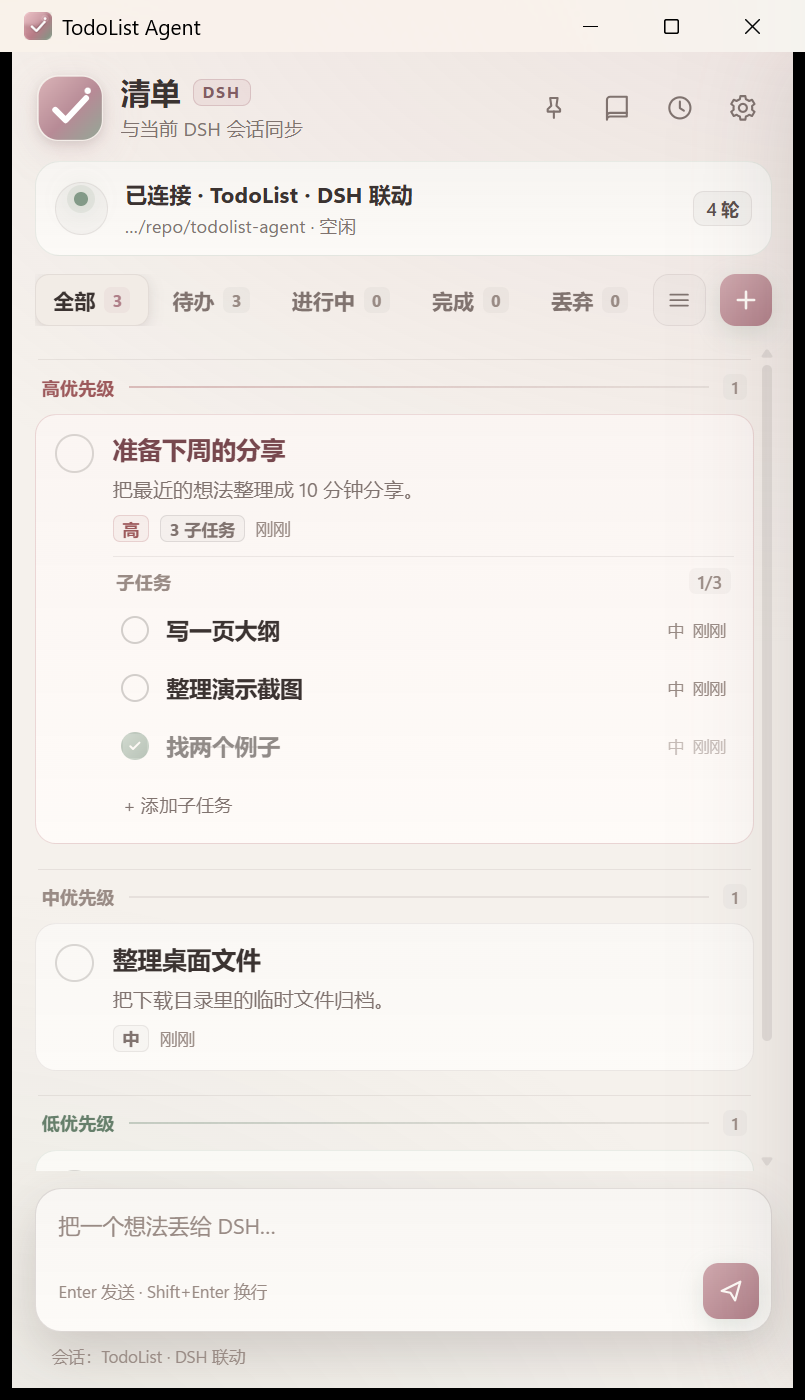
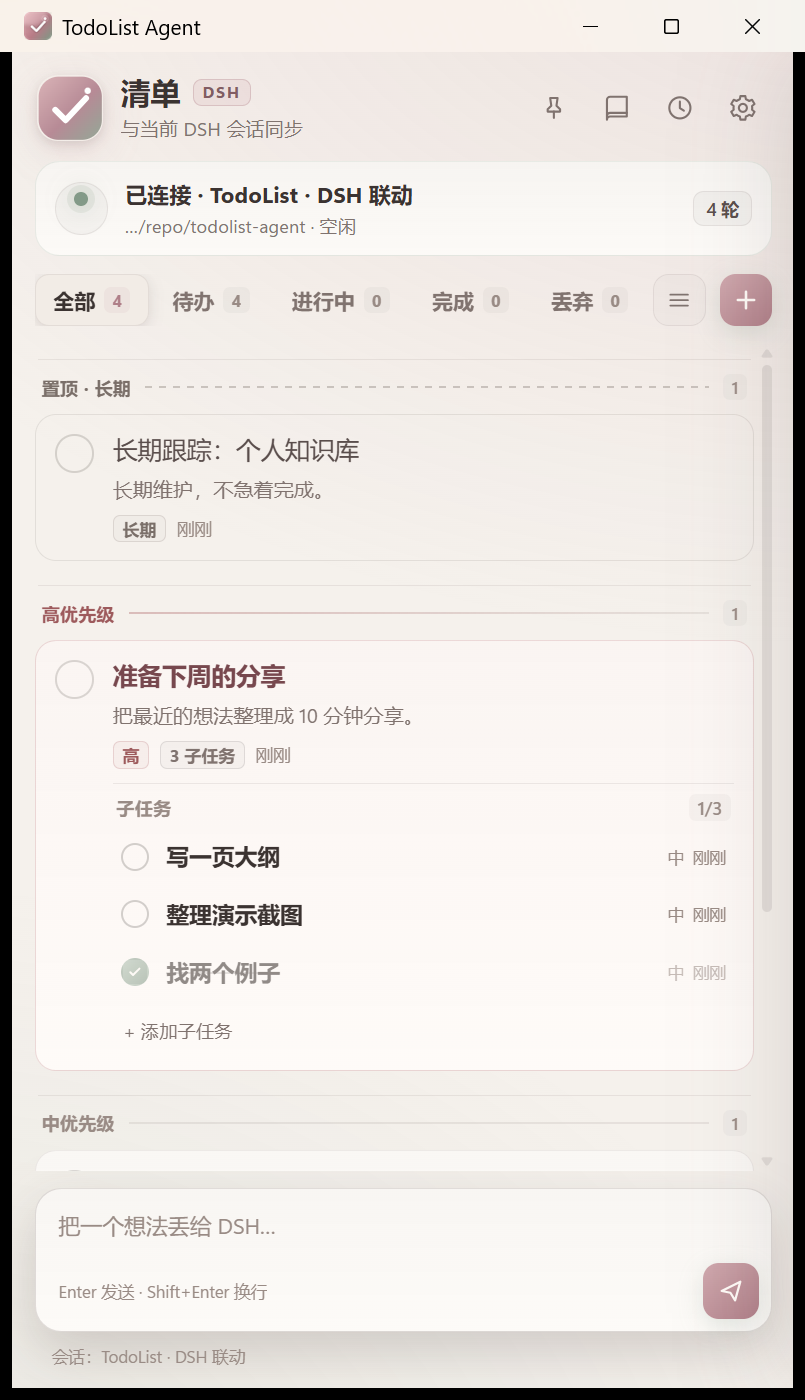
feat: add pinned long-term priority band

diff --git a/web/style.css b/web/style.css
@@ -652,6 +652,13 @@ svg {
   background: rgba(var(--ink), 0.025);
 }
 
+.pill.pinned {
+  color: #7d6f68;
+  border-color: rgba(125, 111, 104, 0.18);
+  background: rgba(125, 111, 104, 0.04);
+  font-weight: 550;
+}
+
 .pill.high {
   color: #a9555b;
   border-color: rgba(190, 106, 110, 0.22);
@@ -756,6 +763,14 @@ svg {
   background: rgba(var(--ink), 0.035);
 }
 
+.prio-divider.prio-pinned {
+  color: #7d6f68;
+}
+
+.prio-divider.prio-pinned .prio-line {
+  background: repeating-linear-gradient(90deg, rgba(125, 111, 104, 0.35) 0 4px, transparent 4px 8px);
+}
+
 .prio-divider.prio-high {
   color: #a9555b;
 }
@@ -779,6 +794,16 @@ svg {
 
 /* Priority is expressed by weight and a restrained tint, not by piling on
    badges. High gets the rose accent, low deliberately stays quiet. */
+.todo.prio-pinned {
+  border-color: rgba(125, 111, 104, 0.15);
+  background: rgba(125, 111, 104, 0.018), var(--surface);
+}
+
+.todo.prio-pinned .todo-title {
+  color: var(--text-2);
+  font-weight: 500;
+}
+
 .todo.prio-high {
   border-color: rgba(190, 106, 110, 0.24);
   background: linear-gradient(180deg, rgba(190, 106, 110, 0.055), rgba(190, 106, 110, 0.015)), var(--surface);
@@ -799,6 +824,11 @@ svg {
   font-weight: 500;
 }
 
+.crow.prio-pinned .crow-title {
+  color: var(--text-2);
+  font-weight: 500;
+}
+
 .crow.prio-high .crow-title {
   color: #7f454e;
   font-weight: 700;
@@ -809,12 +839,21 @@ svg {
   font-weight: 500;
 }
 
+.crow:not(.child).prio-pinned {
+  box-shadow: inset 2px 0 0 rgba(125, 111, 104, 0.22);
+}
+
 .crow:not(.child).prio-high {
   box-shadow: inset 2px 0 0 rgba(190, 106, 110, 0.38);
 }
 
 .crow:not(.child).prio-low {
   box-shadow: inset 2px 0 0 rgba(125, 155, 134, 0.30);
+}
+
+.subtask.prio-pinned .stitle {
+  color: var(--text-2);
+  font-weight: 500;
 }
 
 .subtask.prio-high .stitle {

diff --git a/web/index.html b/web/index.html
@@ -211,6 +211,7 @@
         <label class="field">
           <span>优先级</span>
           <select id="taskPriority">
+            <option value="pinned">置顶 · 长期</option>
             <option value="high">高</option>
             <option value="normal" selected>中</option>
             <option value="low">低</option>
@@ -356,7 +357,7 @@
 
       <section class="settings-section about">
         <div class="section-title"><span class="section-index">05</span> 关于</div>
-        <p><b>TodoList Agent <span id="aboutVersion">0.2.2</span></b><br>
+        <p><b>TodoList Agent <span id="aboutVersion">0.2.3</span></b><br>
         用 Go + WebView2 构建的轻量桌面清单。通过 DSH 的本地 Web API 直接向当前会话发送输入，并把 DSH 的工具调用同步回清单。</p>
         <p class="muted">连接原理：读取 <code>%USERPROFILE%\.dsh\.credentials.yaml</code> 中的本地签名密钥，签发一个仅限 127.0.0.1 的会话 Cookie；输入通过 <code>session/prompt</code> 进入当前会话。</p>
       </section>

diff --git a/web/app.js b/web/app.js
@@ -33,12 +33,13 @@
   };
 
   const PRIORITY = {
-    high: { label: "高", cls: "high", rank: 0 },
-    normal: { label: "中", cls: "", rank: 1 },
-    low: { label: "低", cls: "low", rank: 2 },
+    pinned: { label: "长期", cls: "pinned", rank: 0 },
+    high: { label: "高", cls: "high", rank: 1 },
+    normal: { label: "中", cls: "", rank: 2 },
+    low: { label: "低", cls: "low", rank: 3 },
   };
-  const PRIORITY_ORDER = ["high", "normal", "low"];
-  const PRIORITY_BAND_LABEL = { high: "高优先级", normal: "中优先级", low: "低优先级" };
+  const PRIORITY_ORDER = ["pinned", "high", "normal", "low"];
+  const PRIORITY_BAND_LABEL = { pinned: "置顶 · 长期", high: "高优先级", normal: "中优先级", low: "低优先级" };
   const STATUS = {
     todo: { label: "待办", rank: 1 },
     doing: { label: "进行中", rank: 0 },

diff --git a/app.go b/app.go
@@ -342,7 +342,7 @@ func (a *App) setPrefs(p Prefs) {
 
 func normalizePriority(p string) string {
 	switch p {
-	case priorityLow, priorityNormal, priorityHigh:
+	case priorityPinned, priorityHigh, priorityNormal, priorityLow:
 		return p
 	default:
 		return priorityNormal
@@ -504,12 +504,14 @@ func statusRank(status string) int {
 
 func priorityRank(priority string) int {
 	switch normalizePriority(priority) {
-	case priorityHigh:
+	case priorityPinned:
 		return 0
+	case priorityHigh:
+		return 1
 	case priorityLow:
-		return 2
+		return 3
 	}
-	return 1
+	return 2
 }
 
 func todoOrderLess(a, b Todo) bool {
@@ -620,6 +622,8 @@ func (a *App) moveTodo(id, priority, beforeID string, after bool, actor string) 
 
 func priorityLabel(priority string) string {
 	switch normalizePriority(priority) {
+	case priorityPinned:
+		return "置顶 · 长期"
 	case priorityHigh:
 		return "高优先级"
 	case priorityLow:
@@ -944,7 +948,7 @@ func (a *App) agentsBlock() string {
 		"2. `GET <url>/api/todos` 查看全部任务（含 `dropped`），用于查重和定位。",
 		"3. `GET <url>/api/journal?limit=20&q=关键词` 回看旧想法原文及其关联任务。",
 		"4. `POST <url>/api/todos` 执行动作：",
-		"   - `{\"action\":\"add\",\"title\":\"...\",\"notes\":\"...\",\"priority\":\"high|normal|low\",\"parentId\":\"...\",\"sourceMessageId\":\"...\"}`",
+		"   - `{\"action\":\"add\",\"title\":\"...\",\"notes\":\"...\",\"priority\":\"pinned|high|normal|low\",\"parentId\":\"...\",\"sourceMessageId\":\"...\"}`",
 		"   - `{\"action\":\"update\",\"id\":\"...\",\"title\":\"...\",\"status\":\"todo|doing|done|dropped\",\"dropReason\":\"...\"}`",
 		"   - `{\"action\":\"complete\",\"id\":\"...\"}` / `reopen` / `drop`（带 reason） / `delete`",
 		"",
@@ -952,6 +956,7 @@ func (a *App) agentsBlock() string {
 		"- 只把**明确的行动意图**（想做、要做、记一下、提醒我、推进某事）提炼成任务；纯情绪/感慨/分享不要自动建任务，可以简短回应或问一句是否需要记下。",
 		"- 一条消息有多个行动点就拆成多个任务；一个行动点不要拆碎。",
 		"- 任务支持一层子任务：`add` 时传 `parentId` 即可；子任务不能再有子任务。只有当一个任务确实有 2-5 个明确步骤时才拆子任务，不要为了层级而层级。",
+		"- 长期跟踪、需要一直排在最前面但不紧急的任务用 `priority:\"pinned\"`（置顶 · 长期）；它排在 high 之前，但视觉上不抢高优先级。",
 		"- 先查列表再新增，避免重复；相似任务优先 update 而不是 add。",
 		"- 用户说“关掉/做完了/搞定” → `complete`；说“不做了/算了/放弃/搁置/丢弃” → `drop` 并写 `reason`；只有明确说“删除/删掉”才 `delete`。",
 		"- 开始处理某任务 → `doing`；完成后 → `done`。",

diff --git a/dsh.go b/dsh.go
@@ -1011,7 +1011,7 @@ func (c *DSHClient) OnboardingText() string {
 		"- `GET /api/todos`：查看全部任务（含 dropped），用于查重和定位",
 		"- `GET /api/journal?limit=20&q=关键词`：回看很久以前的想法原文及关联任务",
 		"- `POST /api/todos`：",
-		"  - `{\"action\":\"add\",\"title\":\"...\",\"notes\":\"...\",\"priority\":\"high|normal|low\",\"parentId\":\"...\",\"sourceMessageId\":\"...\"}`",
+		"  - `{\"action\":\"add\",\"title\":\"...\",\"notes\":\"...\",\"priority\":\"pinned|high|normal|low\",\"parentId\":\"...\",\"sourceMessageId\":\"...\"}`",
 		"  - `{\"action\":\"update\",\"id\":\"...\",\"title\":\"...\",\"notes\":\"...\",\"status\":\"todo|doing|done|dropped\",\"dropReason\":\"...\"}`",
 		"  - `{\"action\":\"complete\",\"id\":\"...\"}` / `reopen` / `drop`（带 reason） / `delete`",
 		"",
@@ -1022,10 +1022,11 @@ func (c *DSHClient) OnboardingText() string {
 		"2. 只把明确的行动意图（想做、要做、记一下、提醒我、推进某事）提炼成任务；纯情绪、感慨、分享不要自动建任务。可以简短回应，或问一句“要不要记成任务”。",
 		"3. 一条消息有多个行动点就拆成多个任务；一个行动点不要拆碎。",
 		"4. 任务支持一层子任务：`add` 时传 `parentId`；子任务不能再有子任务。只有当一个任务确实有 2-5 个明确步骤时才拆子任务，不要为了层级而层级。",
-		"5. 用户说“关掉/做完了/搞定” → `complete`；说“不做了/算了/放弃/搁置/丢弃” → `drop` 并写明 reason；只有明确说“删除/删掉”才 `delete`。不要把“不做了”当成完成。",
-		"6. 开始处理某任务 → `doing`；完成后 → `done`。",
-		"7. 任务标题写成可执行的短句；`notes` 保留我的原话、背景和链接，不要过度改写。",
-		"8. 回复只简要汇报实际新增/完成/丢弃了哪些任务，不要只列计划。",
+		"5. 长期跟踪、需要一直排在最前面但不紧急的任务用 `priority:\"pinned\"`（置顶 · 长期）；它排在 high 之前，但视觉上不抢高优先级。",
+		"6. 用户说“关掉/做完了/搞定” → `complete`；说“不做了/算了/放弃/搁置/丢弃” → `drop` 并写明 reason；只有明确说“删除/删掉”才 `delete`。不要把“不做了”当成完成。",
+		"7. 开始处理某任务 → `doing`；完成后 → `done`。",
+		"8. 任务标题写成可执行的短句；`notes` 保留我的原话、背景和链接，不要过度改写。",
+		"9. 回复只简要汇报实际新增/完成/丢弃了哪些任务，不要只列计划。",
 		"",
 		"如果我的消息没有明确行动点，就不要制造任务；拿不准时最多问一个简短问题。",
 	}, "\n")

diff --git a/models.go b/models.go
@@ -2,7 +2,7 @@ package main
 
 const (
 	appName    = "TodoList Agent"
-	appVersion = "0.2.2"
+	appVersion = "0.2.3"
 	appID      = "Dusk.TodoListAgent"
 
 	statusTodo    = "todo"
@@ -13,6 +13,7 @@ const (
 	priorityLow    = "low"
 	priorityNormal = "normal"
 	priorityHigh   = "high"
+	priorityPinned = "pinned" // 置顶 · 长期
 )
 
 // Todo is one user-visible task. JSON keys are consumed directly by the web UI.

diff --git a/README.md b/README.md
@@ -33,6 +33,7 @@
 - 纯感慨 / 吐槽 / 转述 / 链接分享不自动建任务，可以简短回应或问一句；
 - 一条消息有多个行动点就拆成多个任务，一个行动点不要拆碎；
 - 任务最多一层子任务：`add` 时传 `parentId`；只有当一个任务确实有 2-5 个明确步骤时才拆子任务；
+- 长期跟踪、需要一直排在最前面但不紧急的任务用 `priority:"pinned"`（置顶 · 长期）；
 - 用户说「关掉 / 做完了 / 搞定」→ `complete`；
 - 用户说「不做了 / 算了 / 放弃 / 搁置 / 丢弃」→ `drop` 并记录原因；
 - 只有明确说「删除 / 删掉」才 `delete`；
@@ -103,11 +104,12 @@ DSH 会把它作为 `sourceMessageId` 传给本地接口；应用据此把任务
 
 ### 8. 优先级分栏与拖动
 
-「待办」内部按优先级分成高 / 中 / 低三段，中间有分割线：
+「待办」内部按优先级分成置顶 · 长期 / 高 / 中 / 低四段，中间有分割线：
 
-- 高优先级：灰粉标题 + 轻微玫瑰色底，标题加粗；
-- 中优先级：默认深棕标题，正常字重；
-- 低优先级：鼠尾草绿细边，标题降低字重和对比度，不抢注意力；
+- **置顶 · 长期**：排在最前面，但用灰褐色虚线、正常字重和低对比度，故意不抢眼；
+- **高优先级**：灰粉标题 + 轻微玫瑰色底，标题加粗，视觉上最醒目；
+- **中优先级**：默认深棕标题，正常字重；
+- **低优先级**：鼠尾草绿细边，标题降低字重和对比度，不抢注意力；
 - 把待办卡片拖到另一段，会自动改变它的优先级；
 - 同一段内上下拖动只调整顺序，不改优先级；
 - 拖到段标题上表示放到该段顶部；
@@ -164,7 +166,7 @@ DSH 桌面版本质上是一个 Electron 外壳 + Cordis 宿主，Web GUI 在 `h
    - 地址和 Token 写入 `%APPDATA%\TodoListAgent\bridge.json`。
    - DSH 通过 `POST /api/todos` 执行：
      ```json
-     {"action":"add","title":"...","notes":"...","priority":"high|normal|low","parentId":"...","sourceMessageId":"..."}
+     {"action":"add","title":"...","notes":"...","priority":"pinned|high|normal|low","parentId":"...","sourceMessageId":"..."}
      {"action":"update","id":"...","status":"todo|doing|done|dropped","dropReason":"..."}
      {"action":"complete","id":"..."}
      {"action":"drop","id":"...","reason":"..."}
@@ -206,11 +208,12 @@ DSH 桌面版本质上是一个 Electron 外壳 + Cordis 宿主，Web GUI 在 `h
    - 之后 DSH 会按需 `add / update / complete / drop`，桌面清单即时变化。
 4. 在底部输入框写想法，`Enter` 发送，`Shift+Enter` 换行。
 5. 想拆步骤时，点任务右侧的 **+** 或子任务区的 **“+ 添加子任务”**；父任务会显示 `1/4` 进度。
-6. 待办卡片可以按住上下拖动：同段内改顺序，拖到高 / 中 / 低段会改优先级。
-7. 点右上角图钉保持置顶；关闭窗口会最小化到托盘。
-8. 右上角 **书本图标** 打开「想法回顾」，**时钟图标** 打开「操作记录」。
-9. 工具栏的列表/网格按钮切换卡片 / 紧凑模式。
-10. 齿轮 → 设置：切换会话、新建专用会话、修改 DSH 地址、查看 Agent 接口、复制 curl 示例、复制诊断信息、退出。
+6. 新建 / 编辑任务时优先级可选 **置顶 · 长期 / 高 / 中 / 低**。
+7. 待办卡片可以按住上下拖动：同段内改顺序，拖到置顶 / 高 / 中 / 低段会改优先级。
+8. 点右上角图钉保持置顶；关闭窗口会最小化到托盘。
+9. 右上角 **书本图标** 打开「想法回顾」，**时钟图标** 打开「操作记录」。
+10. 工具栏的列表/网格按钮切换卡片 / 紧凑模式。
+11. 齿轮 → 设置：切换会话、新建专用会话、修改 DSH 地址、查看 Agent 接口、复制 curl 示例、复制诊断信息、退出。
 
 普通用户第一次使用的完整路径：
 
